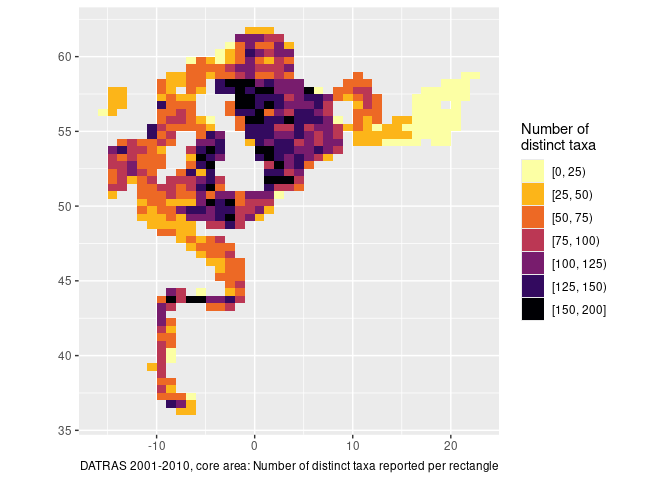
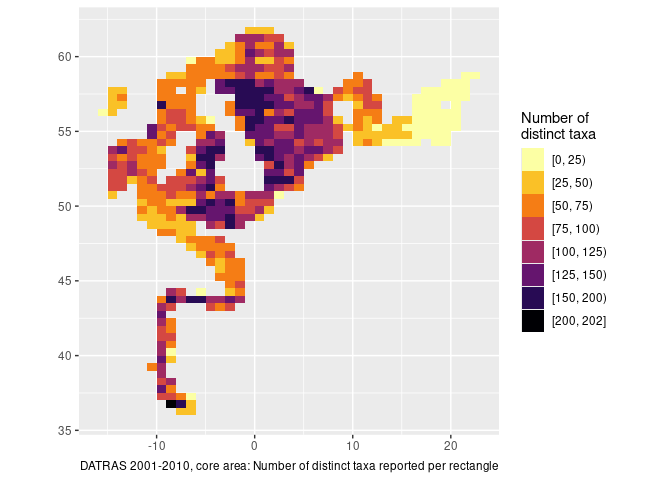
fix bug

diff --git a/README.md b/README.md
@@ -39,32 +39,16 @@ ca <- dr_con("CA")
 library(tidyverse)
 hl |> glimpse()
 #> Rows: ??
-#> Columns: 24
+#> Columns: 8
 #> Database: DuckDB 1.4.3 [unknown@Linux 5.10.0-33-amd64:R 4.4.1/:memory:]
-#> $ .id                  <chr> "BITS:2008:4:DK:26HI:TVS:1874:23", "BITS:1997:4:S…
-#> $ SpecCodeType         <chr> "W", "W", "W", "W", "W", "W", "W", "W", "W", "W",…
-#> $ SpecCode             <chr> "127143", "126425", "126425", "126425", "126425",…
-#> $ SpecVal              <chr> "1", "1", "1", "1", "1", "1", "1", "1", "1", "1",…
-#> $ Sex                  <chr> NA, NA, NA, NA, NA, NA, NA, NA, NA, NA, NA, NA, N…
-#> $ TotalNo              <dbl> 19.00, 1571.11, 1571.11, 1571.11, 1571.11, 10.00,…
-#> $ CatIdentifier        <int> 1, 1, 1, 1, 1, 1, 1, 1, 1, 1, 1, 1, 1, 1, 1, 1, 1…
-#> $ NoMeas               <int> 19, 42, 42, 42, 42, 5, 29, 29, 29, 5, 5, 5, 210, …
-#> $ SubFactor            <dbl> 1.0000, 1.0000, 1.0000, 1.0000, 1.0000, 1.0000, 1…
-#> $ SubWgt               <int> 2500, NA, NA, NA, NA, NA, 1600, 1600, 1600, NA, N…
-#> $ CatCatchWgt          <int> 2500, 20200, 20200, 20200, 20200, 2700, 1600, 160…
-#> $ LngtCode             <chr> ".", "0", "0", "0", "0", "1", ".", ".", ".", "1",…
-#> $ LngtClass            <int> 260, 145, 145, 150, 150, 23, 200, 210, 220, 27, 2…
-#> $ HLNoAtLngt           <dbl> 1.00, 112.22, 112.22, 74.81, 74.81, 2.00, 2.00, 1…
-#> $ DevStage             <chr> NA, NA, NA, NA, NA, NA, NA, NA, NA, NA, NA, NA, N…
-#> $ LenMeasType          <chr> NA, NA, NA, NA, NA, NA, NA, NA, NA, NA, NA, NA, N…
-#> $ ValidAphiaID         <chr> "127143", "126425", "126425", "126425", "126425",…
-#> $ ScientificName_WoRMS <chr> "Pleuronectes platessa", "Sprattus sprattus", "Sp…
-#> $ DateofCalculation    <chr> "20180507", "20161115", "20161115", "20161115", "…
-#> $ .datatype            <chr> "R", "C", "C", "C", "C", "C", "R", "R", "R", "C",…
-#> $ .effort              <int> 30, 30, 30, 30, 30, 30, 30, 30, 30, 30, 30, 30, 3…
-#> $ n                    <dbl> 1.000, 56.110, 56.110, 37.405, 37.405, 1.000, 2.0…
-#> $ cpue                 <dbl> 2.00, 112.22, 112.22, 74.81, 74.81, 2.00, 4.00, 2…
-#> $ length               <dbl> 26, 14, 14, 15, 15, 23, 20, 21, 22, 27, 29, 30, 2…
+#> $ .id      <chr> "BITS:2013:4:DE:06SL:TVS:24252:36", "BITS:2013:4:DE:06SL:TVS:…
+#> $ latin    <chr> "Gadus morhua", "Gadus morhua", "Gadus morhua", "Gadus morhua…
+#> $ length   <dbl> 39.0, 40.0, 41.0, 42.0, 44.0, 49.0, 51.0, 52.0, 9.0, 10.0, 13…
+#> $ Sex      <chr> NA, NA, NA, NA, NA, NA, NA, NA, NA, NA, NA, NA, NA, NA, NA, N…
+#> $ DevStage <chr> NA, NA, NA, NA, NA, NA, NA, NA, NA, NA, NA, NA, NA, NA, NA, N…
+#> $ n        <dbl> 19.2619, 8.2551, 2.7517, 13.7585, 2.7517, 2.7517, 2.7517, 2.7…
+#> $ cpue     <dbl> 38.5238, 16.5102, 5.5034, 27.5170, 5.5034, 5.5034, 5.5034, 5.…
+#> $ species  <chr> "Atlantic cod", "Atlantic cod", "Atlantic cod", "Atlantic cod…
 ```
 
 ## A little exploration
@@ -88,11 +72,11 @@ hh |>
   mutate(lon = ShootLong%/%dx * dx + dx/2,
          lat = ShootLat%/%dy * dy + dy/2) |> 
   left_join(hl |> 
-              select(.id, ScientificName_WoRMS),
+              select(.id, latin),
            by = join_by(.id)) |>
   # analyse by grid
   group_by(lon, lat) |> 
-  summarise(n_taxa = n_distinct(ScientificName_WoRMS),
+  summarise(n_taxa = n_distinct(latin),
             .groups = "drop") |> 
   # load data into R memory because santoku::chop not in duckdb lingo
   #  chop is also nicer than cut - keeps things more orderly